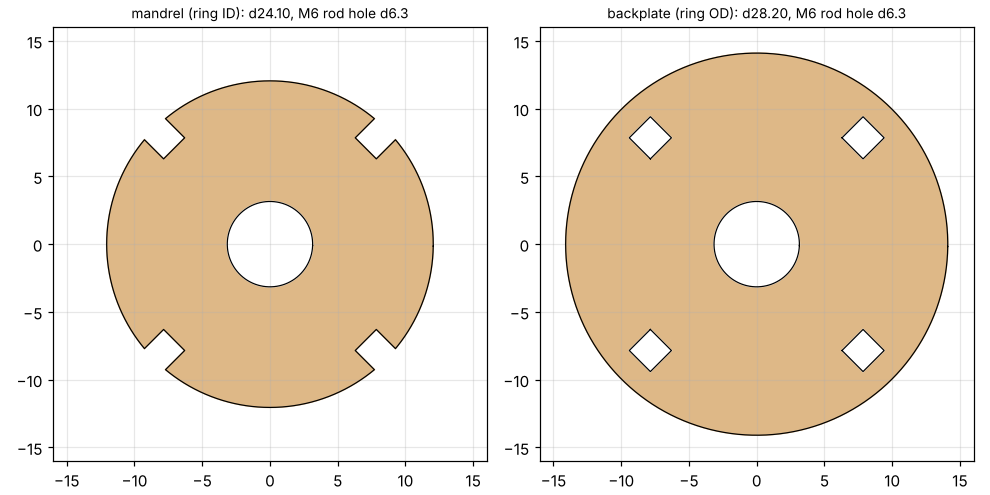
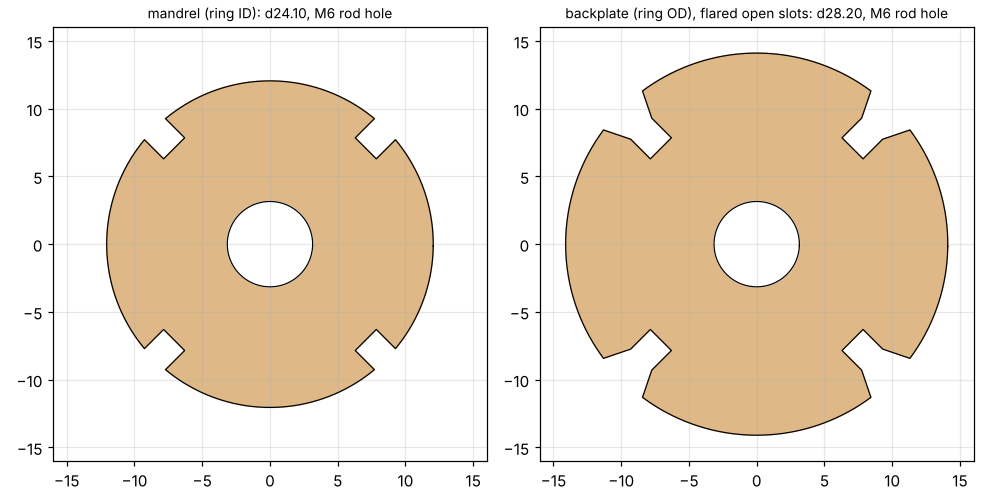
Mandrel backplate: wire slots open to the rim and flared, so it comes off after soldering
Claude-Session: https://claude.ai/code/session_01LQy87QnU21cWEAk5CN6jGY

diff --git a/marbles/clock/ring_jig_compact.py b/marbles/clock/ring_jig_compact.py
@@ -11,8 +11,8 @@ JIG (veneer plywood by default): one D-shaped plate stuck to scrap backing.
   - At least 10 mm of wood round the ring hole, at least 4 round the iron hole.
 SPIDERS (veneer plywood by default): discs = ring inside diameter with notches one wire deep at the
   straight-wire angles and a centre hole for the threaded rod (M6 by default); string them on the rod as a mandrel.
-BACKPLATES: discs = ring OUTSIDE diameter with the same rod hole and the same wire slots (closed, since the disc runs
-  past them). Put one on the rod behind a mandrel: the straight wires pass through its slots and the ring sits against
+BACKPLATES: discs = ring OUTSIDE diameter with the same rod hole and the same wire slots, open to the rim and flared
+  wider toward it so the plate comes off past the soldered joints. Put one on the rod behind a mandrel: the straight wires pass through its slots and the ring sits against
   its face, so the ring stays square and in place while you set up to solder.
 
     python3 marbles/clock/ring_jig_compact.py      # -> marbles/gcode/ring_jig_d_<W>x<H>_ply3.gcode, ring_mandrel_<W>x<H>_ply3.gcode,
@@ -62,6 +62,7 @@ CUT_LEN = math.pi * RING_CL
 HOLE = RING_OD + args.groove_clr
 WEB = 4.0
 ROD_R = (args.rod + 0.3) / 2          # rod clearance hole radius
+FLARE = 1.5                           # backplate slots widen by this much each side from the wire out to the rim
 
 
 def jig_and_core():
@@ -108,12 +109,14 @@ def spider():
 
 
 def backplate():
-    """ring-OD disc with the mandrel's rod hole and its wire slots (closed: the same notch, stopping just past the
-    straight wire, so the ring itself bears on the disc)"""
+    """ring-OD disc with the mandrel's rod hole and its wire slots, OPEN to the edge and flared (wider toward the
+    rim), so the plate lifts off past the soldered joints; the lands between the slots still carry the ring"""
     g = Point(0, 0).buffer(RING_OD / 2, 128)
     r = RING_ID / 2
     w = WD + 0.15
-    cuts = [affinity.rotate(box(r - WD, -w / 2, r + 0.15, w / 2), a, origin=(0, 0)) for a in args.angles]
+    R = RING_OD / 2 + 1
+    flare = Polygon([(r - WD, -w / 2), (r, -w / 2), (R, -w / 2 - FLARE), (R, w / 2 + FLARE), (r, w / 2), (r - WD, w / 2)])
+    cuts = [affinity.rotate(flare, a, origin=(0, 0)) for a in args.angles]
     cuts.append(Point(0, 0).buffer(ROD_R, 48))
     return g.difference(unary_union(cuts))
 
@@ -169,4 +172,4 @@ if sp:
 bp = [] if args.backplates < 1 else [affinity.translate(backplate(), RING_OD / 2 + i * (RING_OD + gap), RING_OD / 2) for i in range(args.backplates)]
 if bp:
     write("ring_mandrel_back" if args.backplates == 1 else f"ring_mandrel_back_x{args.backplates}", bp, args.spider_material,
-          f"mandrel backplate x{args.backplates}: ring OD d{RING_OD:.2f}, wire slots at {args.angles} deg (closed), M{args.rod:g} rod hole")
+          f"mandrel backplate x{args.backplates}: ring OD d{RING_OD:.2f}, flared open wire slots at {args.angles} deg, M{args.rod:g} rod hole")

diff --git a/marbles/clock/CUT_LIST.md b/marbles/clock/CUT_LIST.md
@@ -76,8 +76,9 @@ the new batch).
 
 - [ ] **Ring mandrel + backplate** for soldering, ply3, both on an M6 threaded rod (2026-11-15: rod hole now M6, was M5):
   - `ring_mandrel_25x25_ply3`: ring-ID disc with the 4 straight-wire notches.
-  - `ring_mandrel_back_29x29_ply3`: ring-OD disc with the same rod hole and wire slots (closed). Put it behind a
-    mandrel so the ring sits against its face, square and in place. Preview: `views/ring_mandrel_backplate.png`.
+  - `ring_mandrel_back_29x29_ply3`: ring-OD disc with the same rod hole and wire slots, open to the rim and flared,
+    so it comes off past the soldered joints. Put it behind a mandrel so the ring sits against its face, square and
+    in place. Preview: `views/ring_mandrel_backplate.png`.
 - [ ] **Ring D-jig sandwich**, rail mount (centre 30 mm up, M5 10 mm up; the core and base centre hole is now M6):
   - `ring_jig_base_rail_83x57_ply3` × 1,
   - `ring_jig_d_rail_83x57_acrylic3` × 1,
